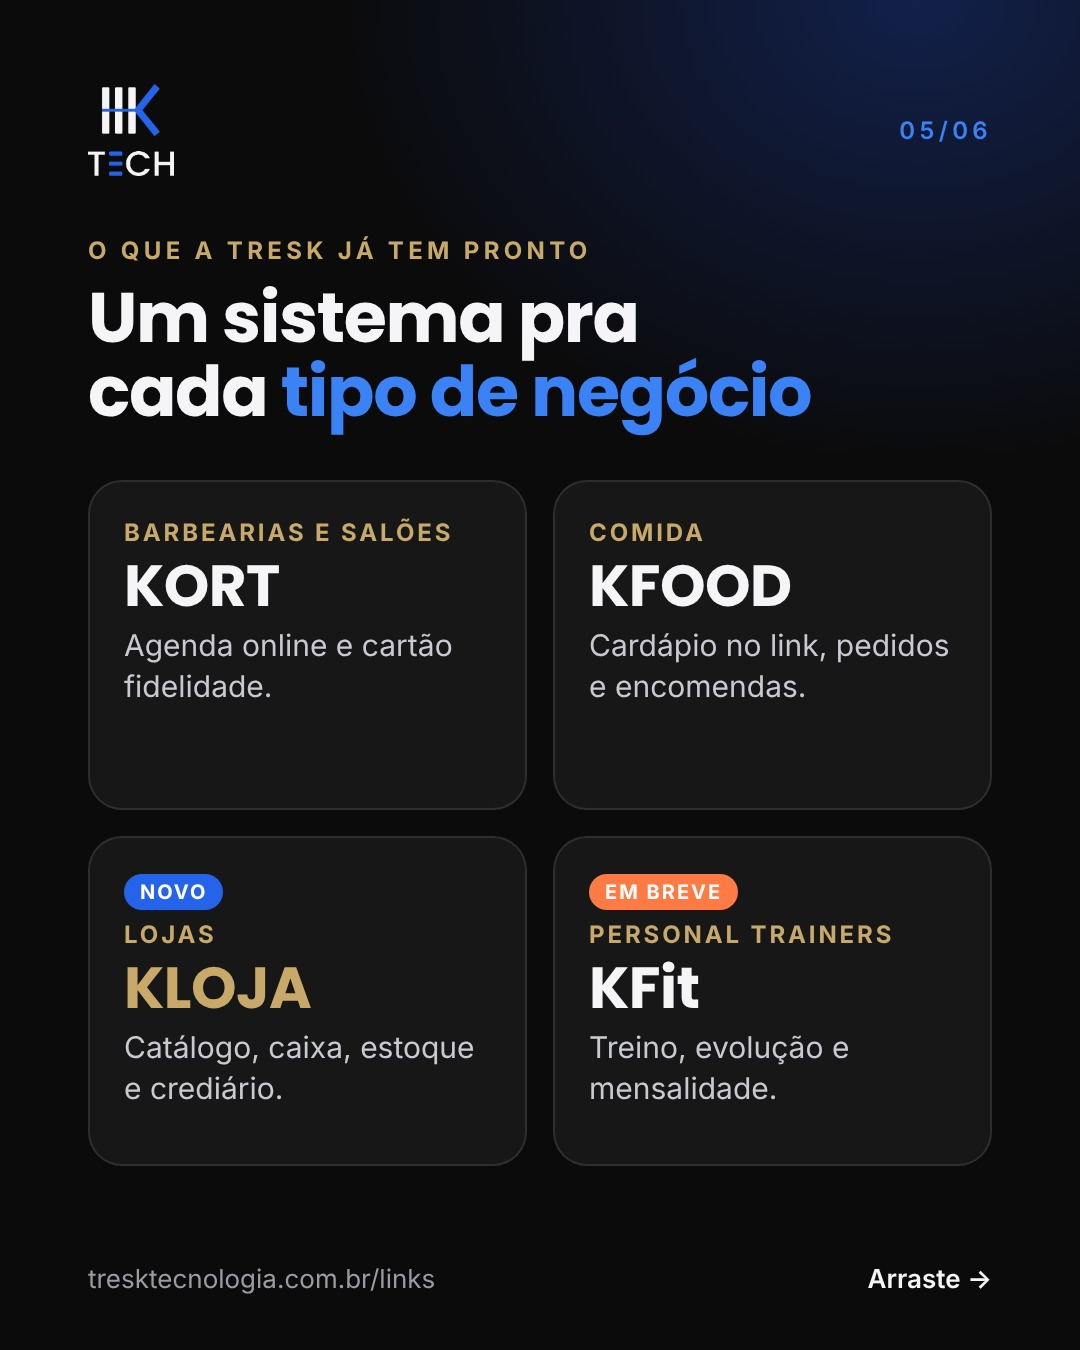
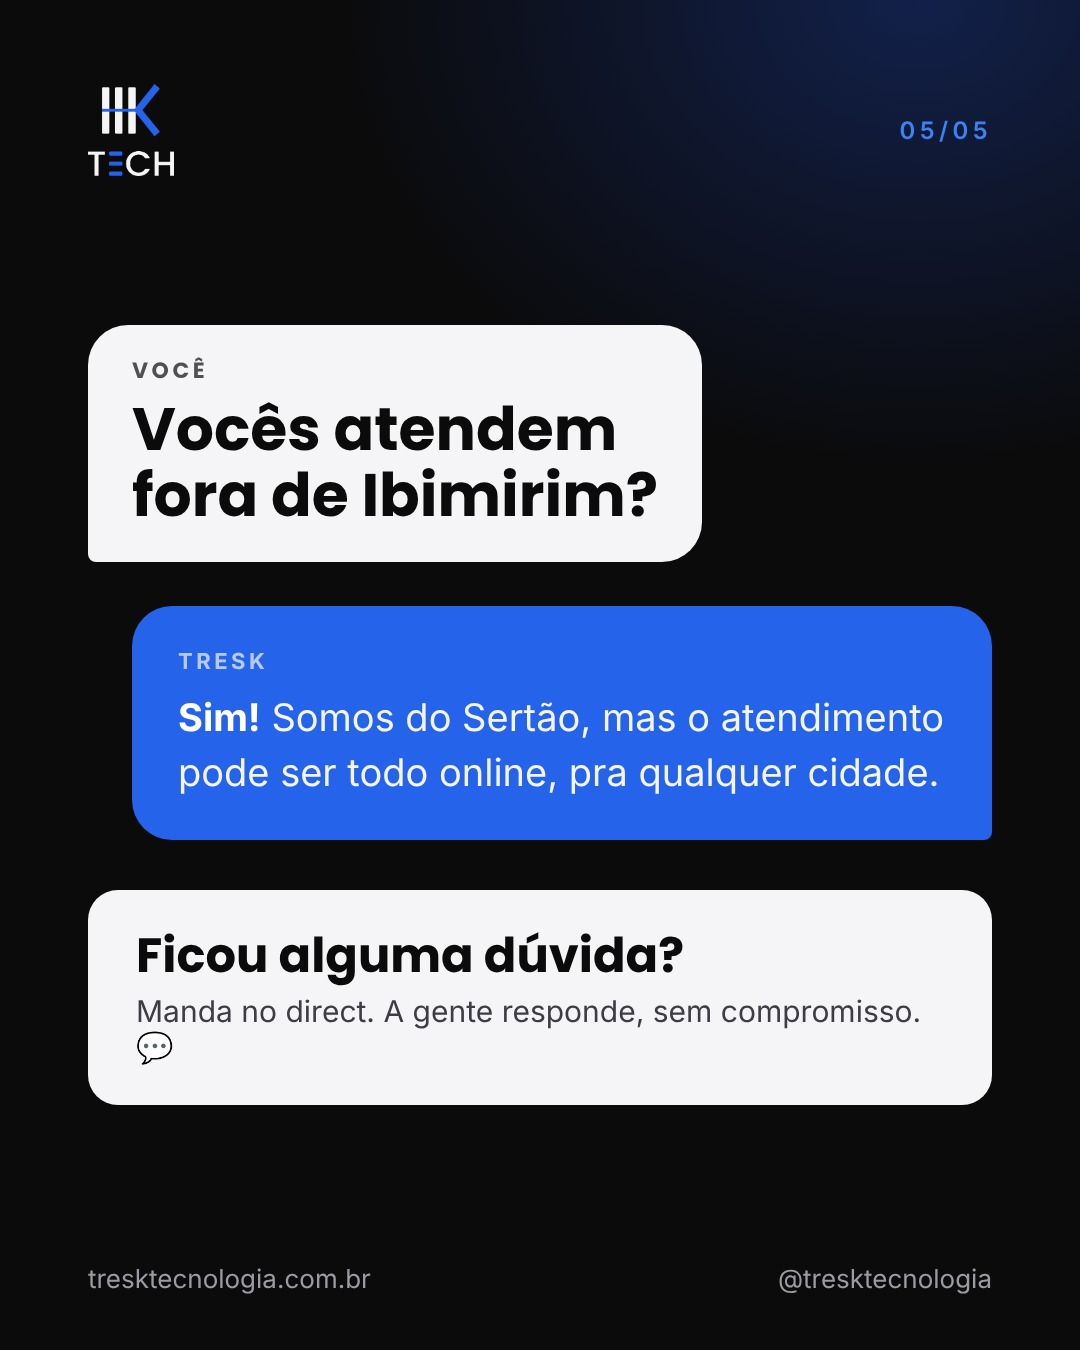
Carrossel de sexta: tira o slide com todos os produtos juntos
Claude-Session: https://claude.ai/code/session_017f6brrwZrRZyYiH5Knf6Ap

diff --git a/marketing/instagram/semana-2026-11-23/post-sex.html b/marketing/instagram/semana-2026-11-23/post-sex.html
@@ -30,7 +30,7 @@ p.sub{margin-top:24px;font-size:34px;line-height:1.42;color:#c0c1c8;max-width:90
 </style></head><body>
 
 <div class="s">
- <div class="top"><img class="mark" src="mark.png"><span class="tag">PERGUNTAS · 01/06</span></div>
+ <div class="top"><img class="mark" src="mark.png"><span class="tag">PERGUNTAS · 01/05</span></div>
  <div class="lbl">O QUE MAIS CHEGA NO NOSSO DIRECT</div>
  <h1>"Quanto custa<br>um <b>sistema</b> pro<br>meu negócio?"</h1>
  <p class="sub">Respondemos as 4 perguntas mais comuns. Sem enrolação. 👉</p>
@@ -39,7 +39,7 @@ p.sub{margin-top:24px;font-size:34px;line-height:1.42;color:#c0c1c8;max-width:90
 </div>
 
 <div class="s">
- <div class="top"><img class="mark" src="mark.png"><span class="tag">02/06</span></div>
+ <div class="top"><img class="mark" src="mark.png"><span class="tag">02/05</span></div>
  <div class="qa">
   <div class="q"><div class="who">VOCÊ</div>Quanto custa?</div>
   <div class="a"><div class="who">TRESK</div>Depende do que o seu negócio precisa: um site é diferente de um sistema com caixa e crediário. Por isso o orçamento é <b>sob medida e sem compromisso</b>: você conta, a gente propõe.</div>
@@ -48,7 +48,7 @@ p.sub{margin-top:24px;font-size:34px;line-height:1.42;color:#c0c1c8;max-width:90
 </div>
 
 <div class="s">
- <div class="top"><img class="mark" src="mark.png"><span class="tag">03/06</span></div>
+ <div class="top"><img class="mark" src="mark.png"><span class="tag">03/05</span></div>
  <div class="qa">
   <div class="q"><div class="who">VOCÊ</div>Quanto tempo<br>demora?</div>
   <div class="a"><div class="who">TRESK</div>Também depende do tamanho do projeto. O importante: o <b>prazo já vem escrito na proposta</b>, antes de você decidir qualquer coisa.</div>
@@ -57,7 +57,7 @@ p.sub{margin-top:24px;font-size:34px;line-height:1.42;color:#c0c1c8;max-width:90
 </div>
 
 <div class="s">
- <div class="top"><img class="mark" src="mark.png"><span class="tag">04/06</span></div>
+ <div class="top"><img class="mark" src="mark.png"><span class="tag">04/05</span></div>
  <div class="lbl">VOCÊ PERGUNTOU</div>
  <h1 style="font-size:66px">"Preciso entender<br>de <b>tecnologia</b>?"</h1>
  <p class="sub"><b>Não.</b> A gente entrega funcionando, no celular, e mostra como usar. Se você usa WhatsApp, você usa um sistema da Tresk.</p>
@@ -66,20 +66,7 @@ p.sub{margin-top:24px;font-size:34px;line-height:1.42;color:#c0c1c8;max-width:90
 </div>
 
 <div class="s">
- <div class="top"><img class="mark" src="mark.png"><span class="tag">05/06</span></div>
- <div class="lbl">O QUE A TRESK JÁ TEM PRONTO</div>
- <h1 style="font-size:70px">Um sistema pra<br>cada <b>tipo de negócio</b></h1>
- <div class="prods">
-  <div class="pc"><span class="fr">Barbearias e salões</span><span class="nm">KORT</span><p>Agenda online e cartão fidelidade.</p></div>
-  <div class="pc"><span class="fr">Comida</span><span class="nm">KFOOD</span><p>Cardápio no link, pedidos e encomendas.</p></div>
-  <div class="pc"><span class="new">NOVO</span><span class="fr">Lojas</span><span class="nm" style="color:#C8A96A">KLOJA</span><p>Catálogo, caixa, estoque e crediário.</p></div>
-  <div class="pc"><span class="new" style="background:#FF7A45">EM BREVE</span><span class="fr">Personal trainers</span><span class="nm">KFit</span><p>Treino, evolução e mensalidade.</p></div>
- </div>
- <div class="foot"><span>tresktecnologia.com.br/links</span><span class="sw">Arraste →</span></div>
-</div>
-
-<div class="s">
- <div class="top"><img class="mark" src="mark.png"><span class="tag">06/06</span></div>
+ <div class="top"><img class="mark" src="mark.png"><span class="tag">05/05</span></div>
  <div class="qa">
   <div class="q"><div class="who">VOCÊ</div>Vocês atendem<br>fora de Ibimirim?</div>
   <div class="a"><div class="who">TRESK</div><b>Sim!</b> Somos do Sertão, mas o atendimento pode ser todo online, pra qualquer cidade.</div>

diff --git a/marketing/instagram/LOG.md b/marketing/instagram/LOG.md
@@ -78,3 +78,4 @@
 ## 26/11 — Regra nova do Anderson: divulgar os produtos
 - [26/11] O Anderson cobrou que os stories e Reels só tinham perguntas sobre valores e caixa, sem mostrar os produtos. Regra daqui pra frente: metade do conteúdo apresenta os produtos (KORT, KFOOD, KFit, KLOJA), metade é dica para atrair; toda enquete/pergunta ganha um story-resposta mostrando o produto com link; cada produto ganha um dia fixo na semana.
 - Ajustes desta semana: Reels qui (26/11) ganhou cena "Fiado no sistema? Conheça o KLOJA" (37,3 s); story-resposta da enquete com o KLOJA (stories/tresk-story-2026-11-26-3.jpg, figurinha de link para /kloja); carrossel sex (27/11) ganhou o slide 05/06 "Um sistema pra cada tipo de negócio" (6 imagens); Reels sáb (28/11) agora diz "Esse sistema tem nome: KLOJA" e o Meu Crediário saiu do "em breve" (34,7 s).
+- [26/11] O Anderson NÃO quer post mostrando todos os produtos juntos (KORT, KFOOD, KLOJA, KFit de uma vez). Cada post/story fala de UM produto só. O slide "Um sistema pra cada tipo de negócio" foi retirado do carrossel de sexta (voltou a 5 slides).
